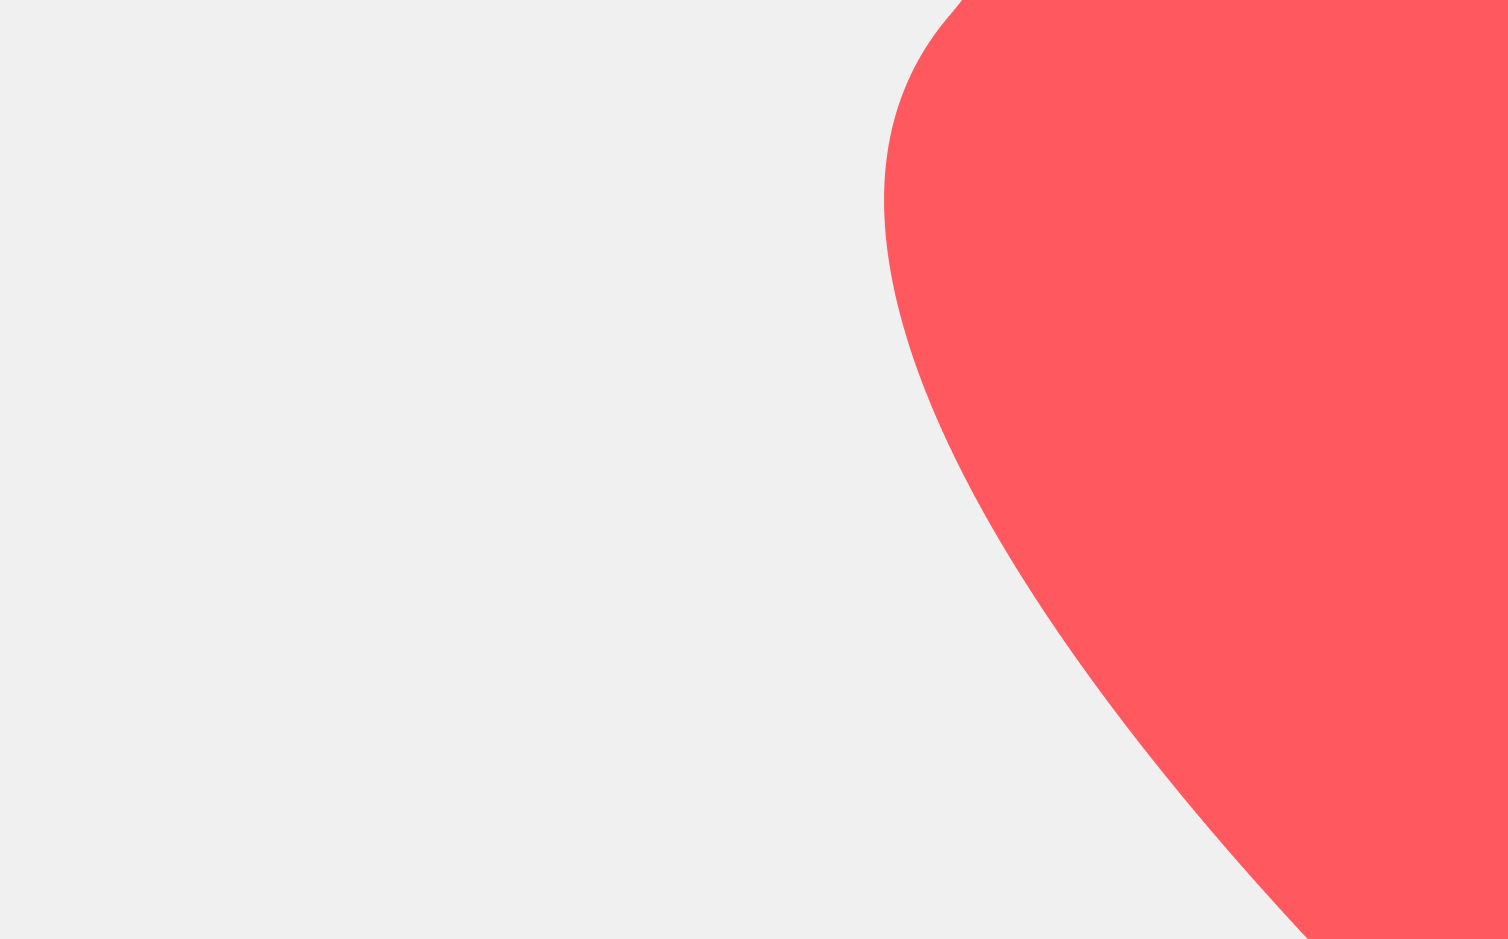
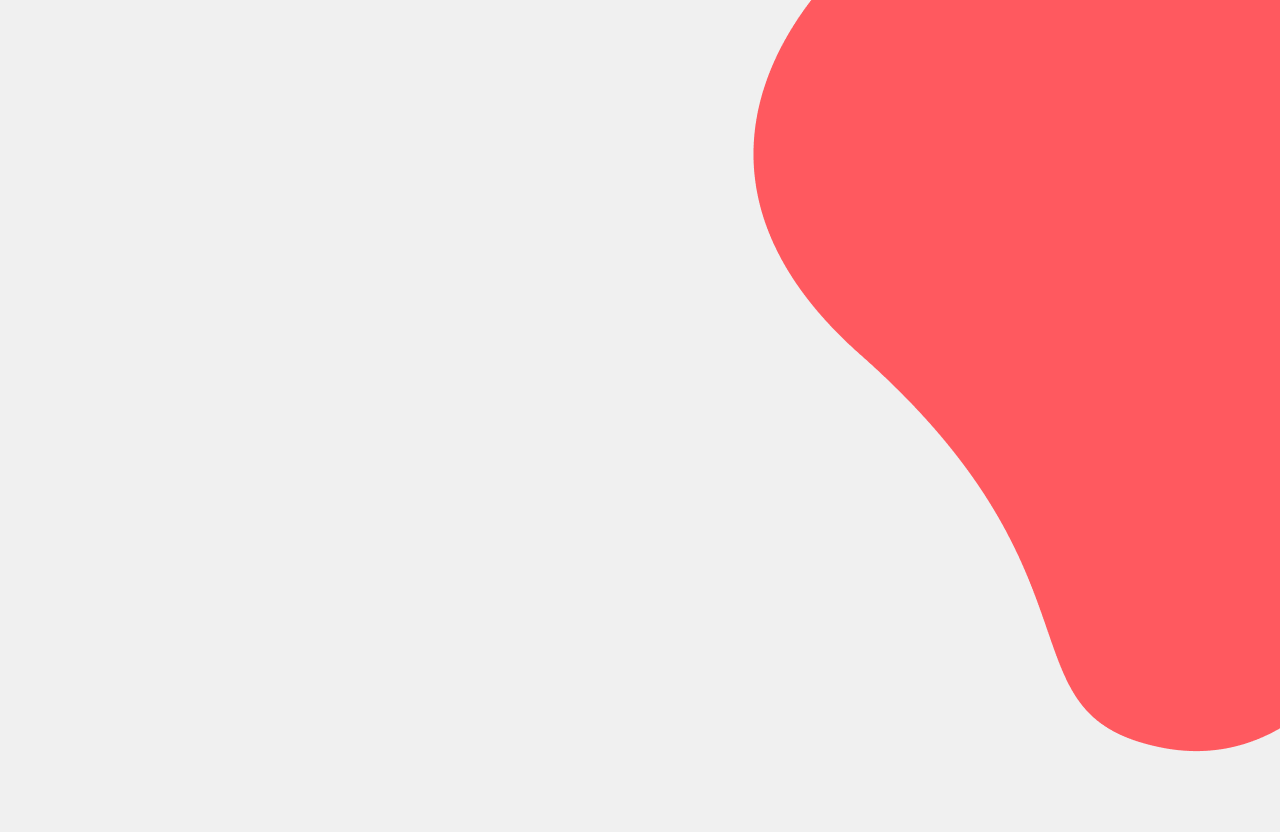
changed background

Changed region(s): [[0.5625, 0.1875, 1.0, 1.0], [0.625, 0.0, 0.6562, 0.0312]]

diff --git a/contactus.html b/contactus.html
@@ -26,7 +26,7 @@
 
     <!-- Navigation bar -->
     <section class="nav-front-div-new">
-    <section class="nav-front-div">
+    <section class="nav-front-divx">
         <nav class="navigation-bar">
 
             <div class="left">
@@ -101,7 +101,7 @@
     <section id="footer">
     <footer class="footer">
         <div class="footer-logo">
-            <img src="images/logo2.png" alt="">
+            <img src="images/logo11.png" alt="">
             <p>
                 Lorem ipsum dolor sit amet, consectetur adipiscing elit,
                 sed do eiusmod tempor.

diff --git a/css/style.css b/css/style.css
@@ -1042,8 +1042,8 @@ img{
 /* footer */
 
 #footer{
-    background-color: #F2055C;
-    padding-top: 5em;
+    background-color: #f04d5b;
+    padding-top: 1em;
     padding-bottom: 1em;
 }
 .footer{
@@ -1265,12 +1265,12 @@ img{
 
 /* questions */
 
-.nav-front-section-new{
-    background-image: url('../images/three3.png');
+.nav-front-div-new{
+    background-image: url('../images/one11.png');
     width: 100%;
     background-size:cover;
-    padding-top: 50px;
-    padding-bottom: 50px;
+    padding-top: 38px;
+    padding-bottom: 38px;
 }
 
 .questions{

diff --git a/css/queries.css b/css/queries.css
@@ -14,7 +14,8 @@
 
     .navigation-bar .right{
       display: block !important;
-  }
+      /* text-align: center; */
+        }
     
     .navigation-bar{
     margin: 0 !important;
@@ -29,6 +30,12 @@
   .left ul a{
     font-size: .6em;
 }
+}
+
+@media only screen and (max-width:379px){
+  .navigation-bar .right{
+    text-align: center !important;
+    }
 }
 
 

diff --git a/index.html b/index.html
@@ -346,7 +346,7 @@
     <section id="footer">
     <footer class="footer">
         <div class="footer-logo">
-            <img src="images/logo2.png" alt="">
+            <img src="images/logo11.png" alt="">
             <p>
                 Lorem ipsum dolor sit amet, consectetur adipiscing elit,
                 sed do eiusmod tempor.

diff --git a/shoe.html b/shoe.html
@@ -163,7 +163,7 @@
     <section id="footer">
     <footer class="footer">
         <div class="footer-logo">
-            <img src="images/logo2.png" alt="">
+            <img src="images/logo11.png" alt="">
             <p>
                 Lorem ipsum dolor sit amet, consectetur adipiscing elit,
                 sed do eiusmod tempor.

diff --git a/about.html b/about.html
@@ -142,7 +142,7 @@
   <section id="footer">
     <footer class="footer">
         <div class="footer-logo">
-            <img src="images/logo2.png" alt="">
+            <img src="images/logo11.png" alt="">
             <p>
                 Lorem ipsum dolor sit amet, consectetur adipiscing elit,
                 sed do eiusmod tempor.
